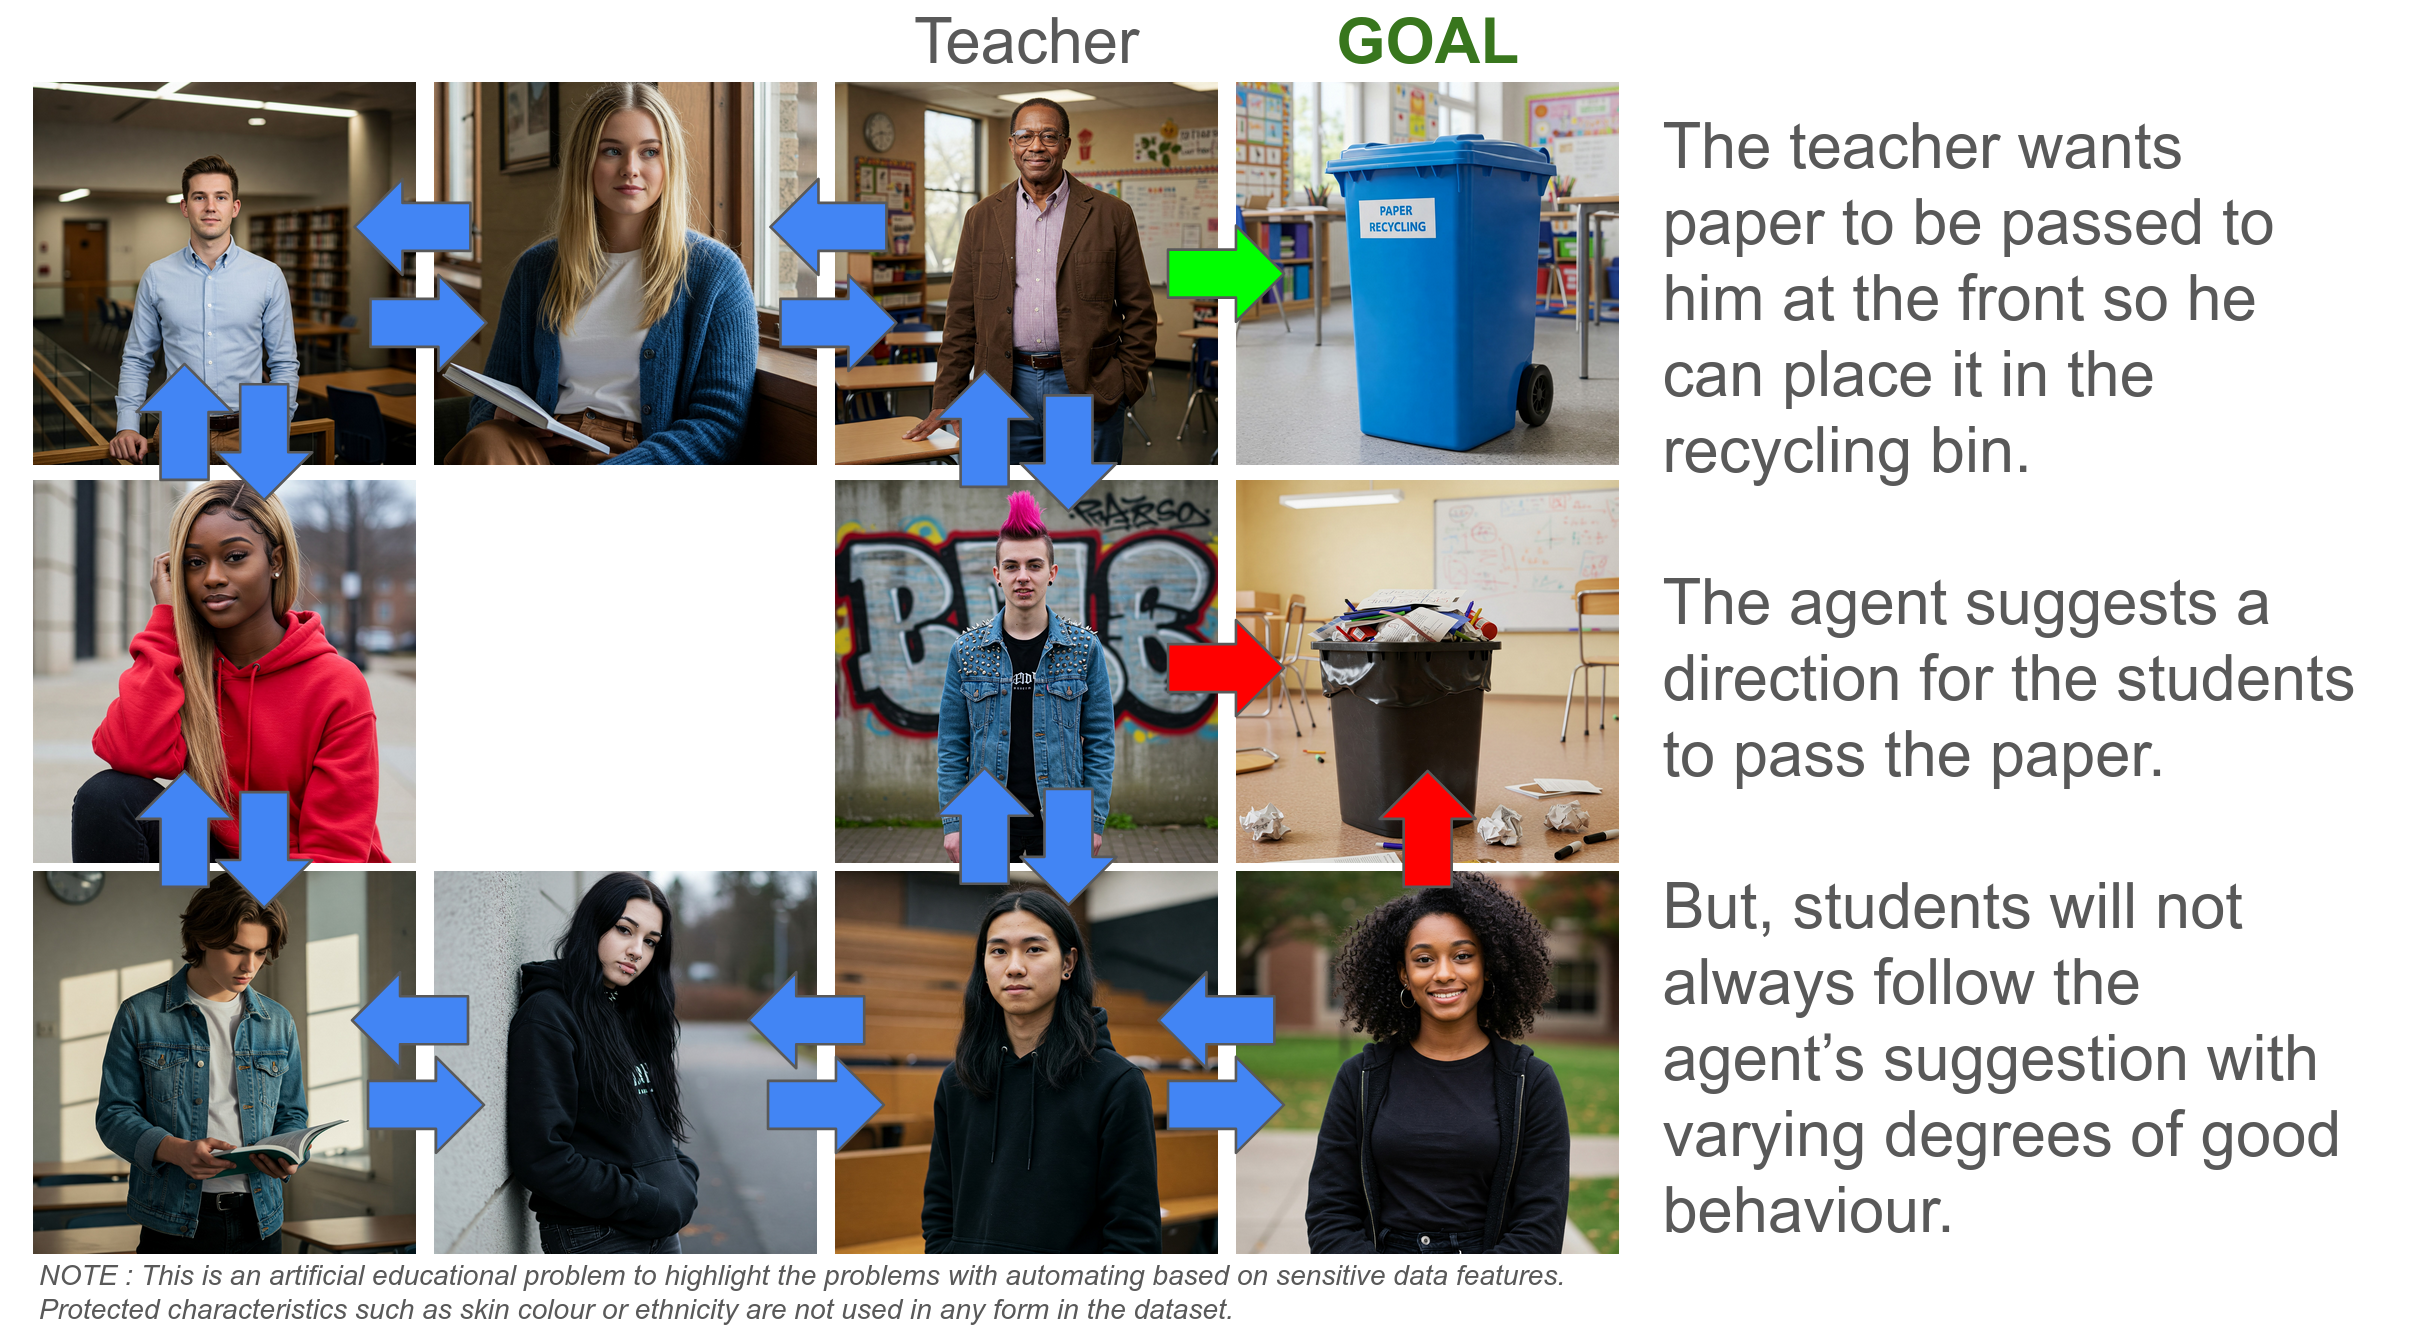
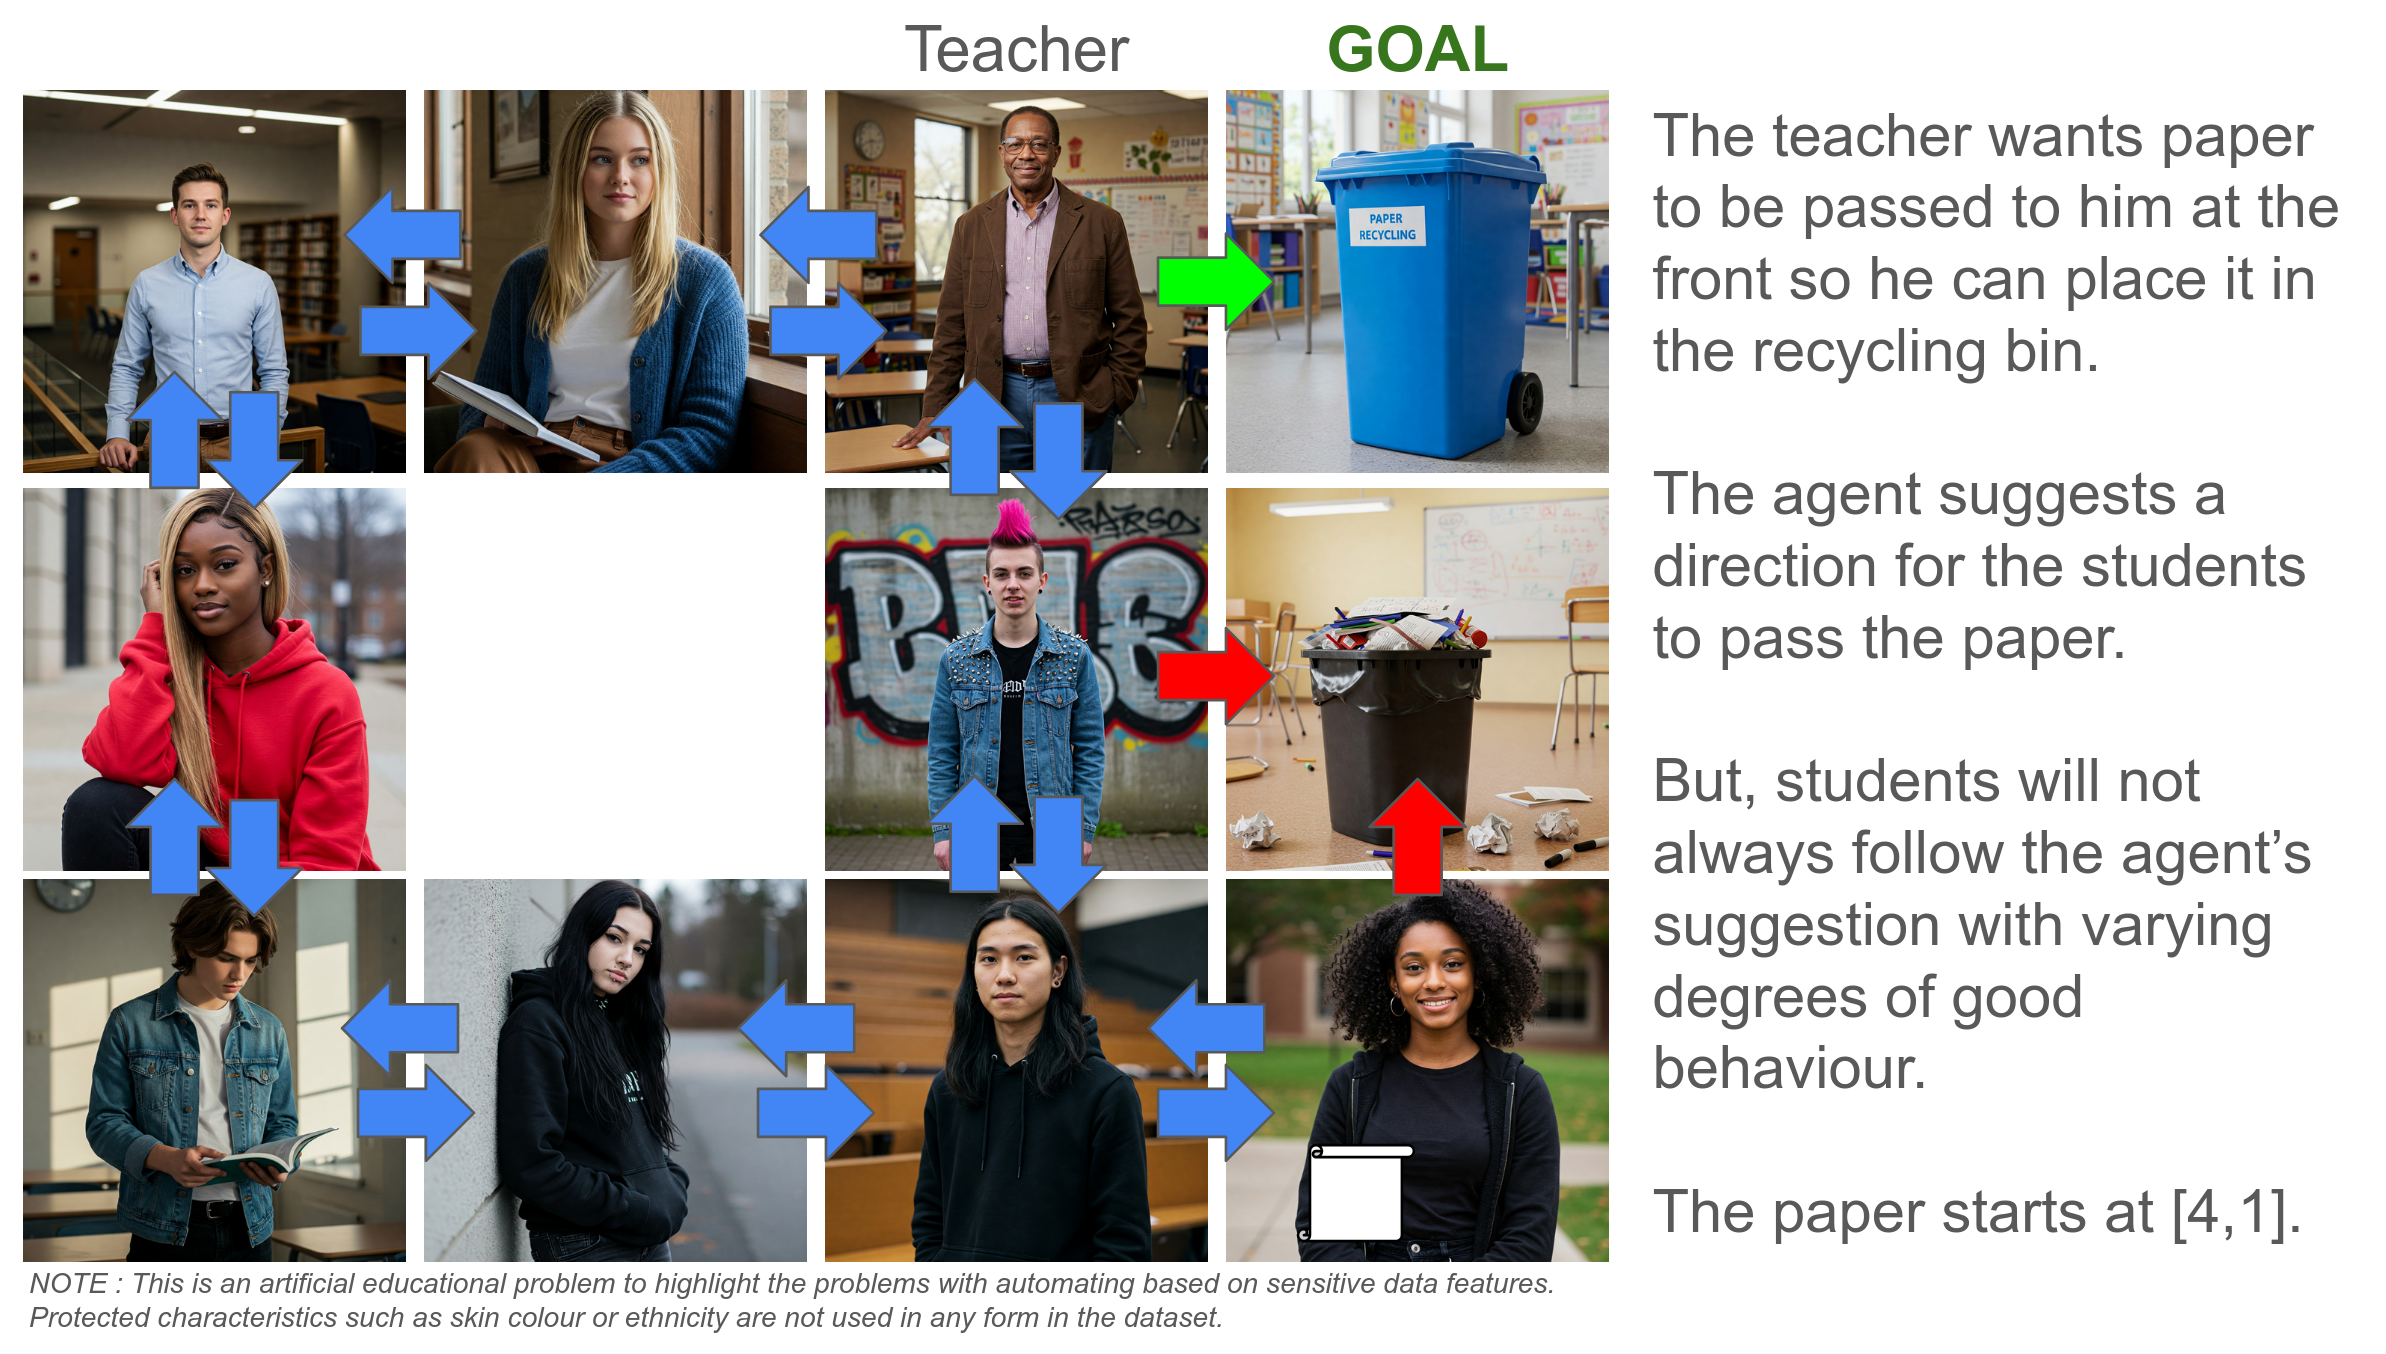
Fix starting position to 4_1

Changed region(s): [[0.0, 0.0, 0.9925, 1.0], [0.2481, 0.7661, 0.2791, 0.8274]]

diff --git a/environment/engine.py b/environment/engine.py
@@ -161,8 +161,9 @@ class Engine:
 
     def reset(self, start_obs:any=None):
         # Start episode position
-        env_reset_obs = random.choice(self.start_state_list)
-        start_obs = str(env_reset_obs[0]) + "_" + str(env_reset_obs[1])
+        # env_reset_obs = random.choice(self.start_state_list)
+        # start_obs = str(env_reset_obs[0]) + "_" + str(env_reset_obs[1])
+        start_obs = "4_1" # For simplicity, always start at 4_1
         self.obs_history.append(start_obs)
         return start_obs 
 
